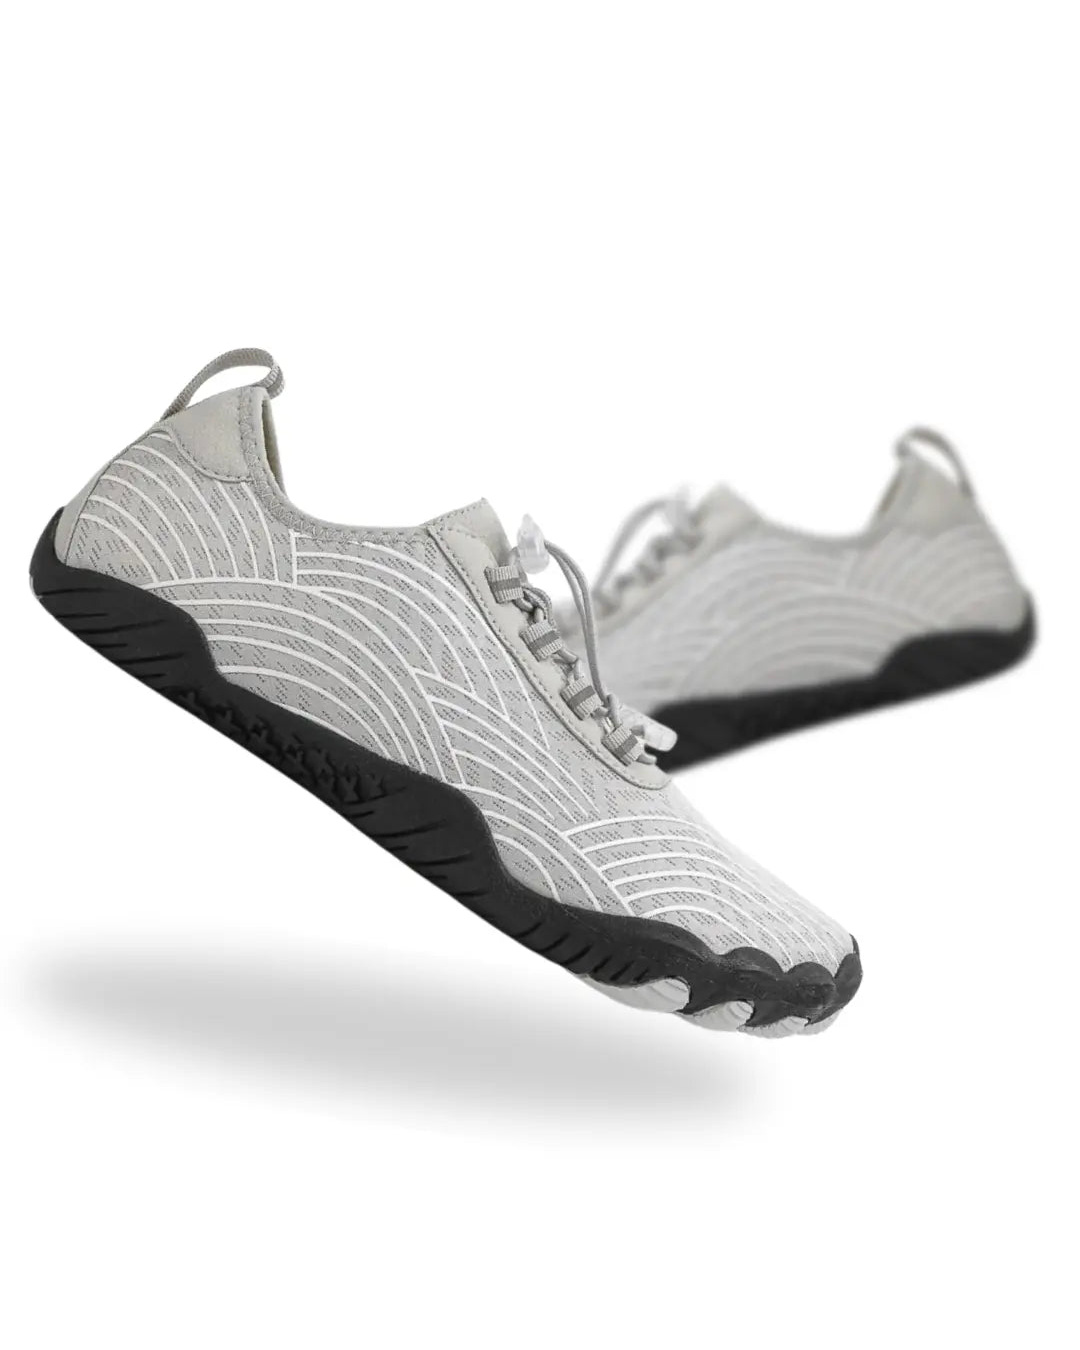
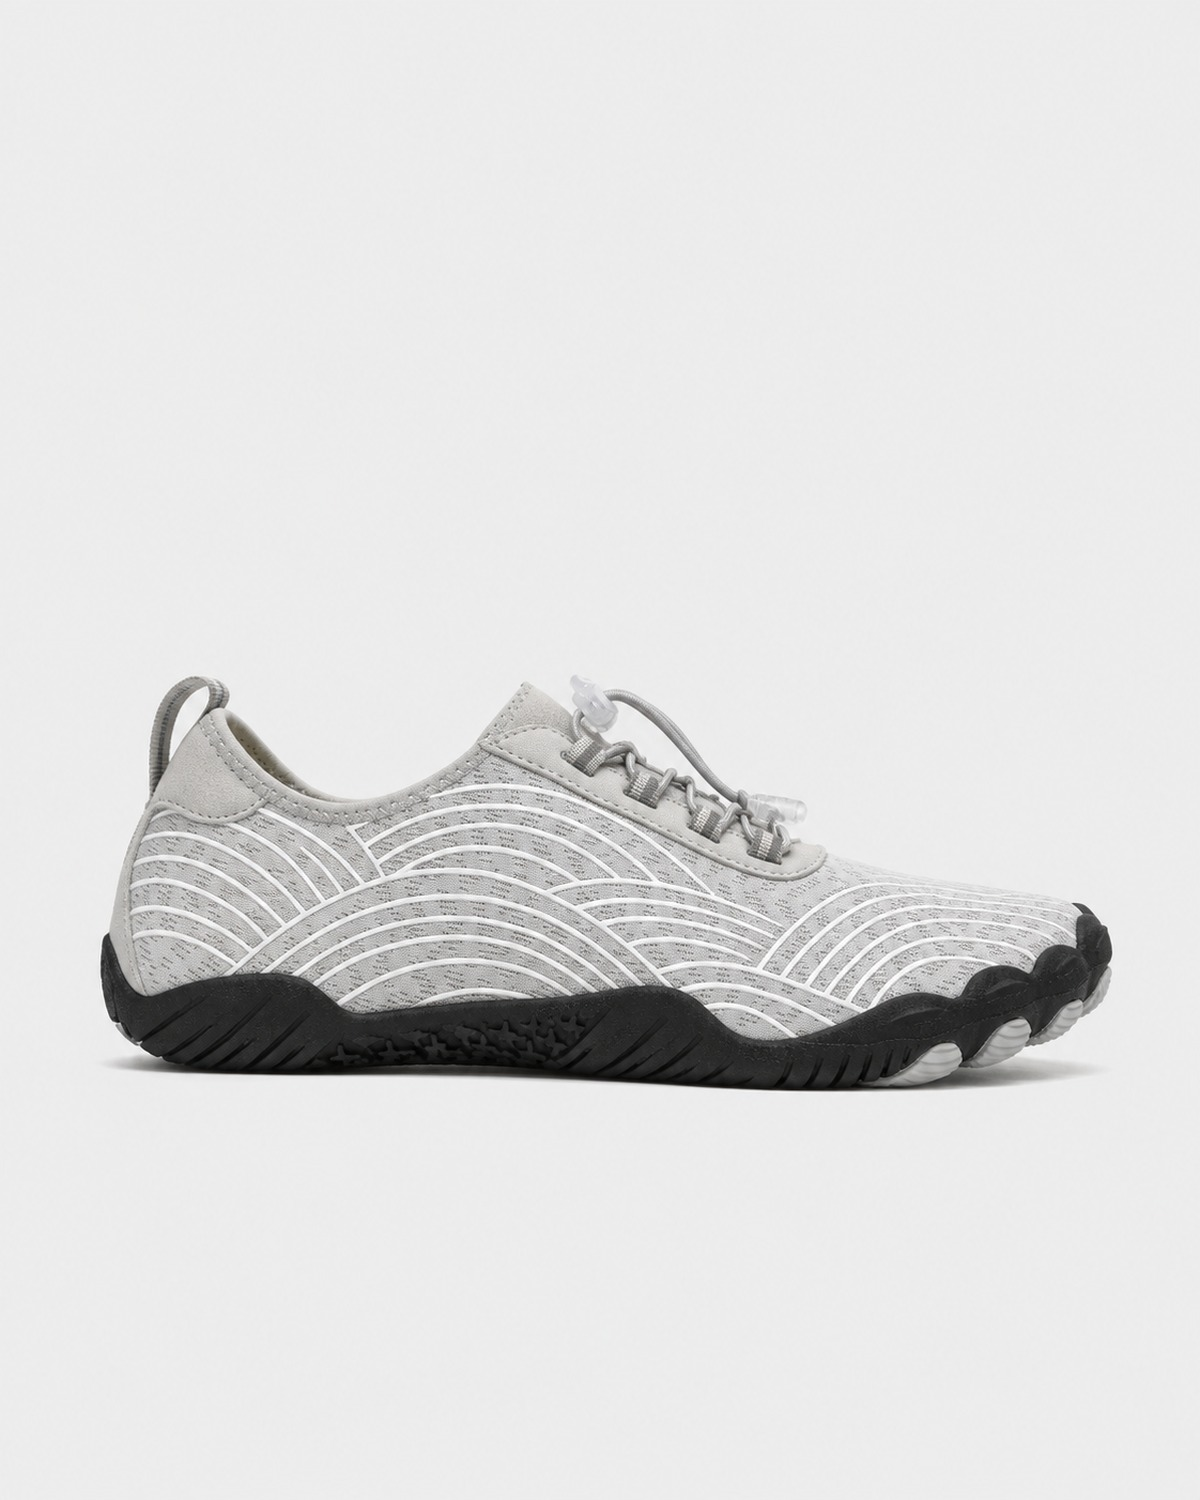
feat: upgrade Clouders Gray gallery to 20-asset master ETQ sequence across UK, US, AU storefronts

Changed region(s): [[0.0306, 0.2489, 0.9778, 0.8089]]

diff --git a/apps/au/src/data/products.ts b/apps/au/src/data/products.ts
@@ -426,14 +426,28 @@ export const PRODUCTS: BarefootProduct[] = [
     compareAtPrice: 179,
     currencySymbol: "A$",
     primaryImage: "/media/products/clouders-gray/buudy-barefoot-shoes-clouders-gray-wide-toe-box-hero.jpg",
-    secondaryImage: "/media/products/clouders-gray/buudy-barefoot-shoes-clouders-gray-side-profile.jpg",
+    secondaryImage: "/media/products/clouders-gray/buudy-barefoot-shoes-clouders-gray-on-foot-architectural-standing.jpg",
     galleryImages: [
       "/media/products/clouders-gray/buudy-barefoot-shoes-clouders-gray-wide-toe-box-hero.jpg",
-      "/media/products/clouders-gray/buudy-barefoot-shoes-clouders-gray-side-profile.jpg",
-      "/media/products/clouders-gray/buudy-barefoot-shoes-clouders-gray-angle-perspective.jpg",
-      "/media/products/clouders-gray/buudy-barefoot-shoes-clouders-gray-front-wide-toe-box.jpg",
-      "/media/products/clouders-gray/buudy-barefoot-shoes-clouders-gray-heel-counter.jpg",
-      "/media/products/clouders-gray/buudy-barefoot-shoes-clouders-gray-top-down-view.jpg",
+      "/media/products/clouders-gray/buudy-barefoot-shoes-clouders-gray-on-foot-architectural-standing.jpg",
+      "/media/products/clouders-gray/buudy-barefoot-shoes-clouders-gray-on-foot-stone-step-climb.jpg",
+      "/media/products/clouders-gray/buudy-barefoot-shoes-clouders-gray-on-foot-stone-ledge-stride.jpg",
+      "/media/products/clouders-gray/buudy-barefoot-shoes-clouders-gray-on-foot-sunlit-steps.jpg",
+      "/media/products/clouders-gray/buudy-barefoot-shoes-clouders-gray-on-foot-top-down-perspective.jpg",
+      "/media/products/clouders-gray/buudy-barefoot-shoes-clouders-gray-macro-lacing-toggle-detail.jpg",
+      "/media/products/clouders-gray/buudy-barefoot-shoes-clouders-gray-macro-heel-counter-rear-sole.jpg",
+      "/media/products/clouders-gray/buudy-barefoot-shoes-clouders-gray-macro-outsole-heel-tread.jpg",
+      "/media/products/clouders-gray/buudy-barefoot-shoes-clouders-gray-dual-heel-perspective-pair.jpg",
+      "/media/products/clouders-gray/buudy-barefoot-shoes-clouders-gray-duo-top-profile-layout.jpg",
+      "/media/products/clouders-gray/buudy-barefoot-shoes-clouders-gray-on-foot-spiral-staircase-walking.jpg",
+      "/media/products/clouders-gray/buudy-barefoot-shoes-clouders-gray-model-full-body-lifestyle.jpg",
+      "/media/products/clouders-gray/buudy-barefoot-shoes-clouders-gray-in-hand-featherlight-display.jpg",
+      "/media/products/clouders-gray/buudy-barefoot-shoes-clouders-gray-herringbone-wood-pair-top-down.jpg",
+      "/media/products/clouders-gray/buudy-barefoot-shoes-clouders-gray-herringbone-wood-toe-box-macro.jpg",
+      "/media/products/clouders-gray/buudy-barefoot-shoes-clouders-gray-herringbone-wood-heel-counter.jpg",
+      "/media/products/clouders-gray/buudy-barefoot-shoes-clouders-gray-herringbone-wood-tongue-laces.jpg",
+      "/media/products/clouders-gray/buudy-barefoot-shoes-clouders-gray-overhead-bungee-throat-angle.jpg",
+      "/media/products/clouders-gray/buudy-barefoot-shoes-clouders-gray-outsole-bottom-tread-grip.jpg",
     ],
     badge: "Popular",
     badgeType: "dark",

diff --git a/apps/uk/src/data/products.ts b/apps/uk/src/data/products.ts
@@ -426,14 +426,28 @@ export const PRODUCTS: BarefootProduct[] = [
     compareAtPrice: 99,
     currencySymbol: "£",
     primaryImage: "/media/products/clouders-gray/buudy-barefoot-shoes-clouders-gray-wide-toe-box-hero.jpg",
-    secondaryImage: "/media/products/clouders-gray/buudy-barefoot-shoes-clouders-gray-side-profile.jpg",
+    secondaryImage: "/media/products/clouders-gray/buudy-barefoot-shoes-clouders-gray-on-foot-architectural-standing.jpg",
     galleryImages: [
       "/media/products/clouders-gray/buudy-barefoot-shoes-clouders-gray-wide-toe-box-hero.jpg",
-      "/media/products/clouders-gray/buudy-barefoot-shoes-clouders-gray-side-profile.jpg",
-      "/media/products/clouders-gray/buudy-barefoot-shoes-clouders-gray-angle-perspective.jpg",
-      "/media/products/clouders-gray/buudy-barefoot-shoes-clouders-gray-front-wide-toe-box.jpg",
-      "/media/products/clouders-gray/buudy-barefoot-shoes-clouders-gray-heel-counter.jpg",
-      "/media/products/clouders-gray/buudy-barefoot-shoes-clouders-gray-top-down-view.jpg",
+      "/media/products/clouders-gray/buudy-barefoot-shoes-clouders-gray-on-foot-architectural-standing.jpg",
+      "/media/products/clouders-gray/buudy-barefoot-shoes-clouders-gray-on-foot-stone-step-climb.jpg",
+      "/media/products/clouders-gray/buudy-barefoot-shoes-clouders-gray-on-foot-stone-ledge-stride.jpg",
+      "/media/products/clouders-gray/buudy-barefoot-shoes-clouders-gray-on-foot-sunlit-steps.jpg",
+      "/media/products/clouders-gray/buudy-barefoot-shoes-clouders-gray-on-foot-top-down-perspective.jpg",
+      "/media/products/clouders-gray/buudy-barefoot-shoes-clouders-gray-macro-lacing-toggle-detail.jpg",
+      "/media/products/clouders-gray/buudy-barefoot-shoes-clouders-gray-macro-heel-counter-rear-sole.jpg",
+      "/media/products/clouders-gray/buudy-barefoot-shoes-clouders-gray-macro-outsole-heel-tread.jpg",
+      "/media/products/clouders-gray/buudy-barefoot-shoes-clouders-gray-dual-heel-perspective-pair.jpg",
+      "/media/products/clouders-gray/buudy-barefoot-shoes-clouders-gray-duo-top-profile-layout.jpg",
+      "/media/products/clouders-gray/buudy-barefoot-shoes-clouders-gray-on-foot-spiral-staircase-walking.jpg",
+      "/media/products/clouders-gray/buudy-barefoot-shoes-clouders-gray-model-full-body-lifestyle.jpg",
+      "/media/products/clouders-gray/buudy-barefoot-shoes-clouders-gray-in-hand-featherlight-display.jpg",
+      "/media/products/clouders-gray/buudy-barefoot-shoes-clouders-gray-herringbone-wood-pair-top-down.jpg",
+      "/media/products/clouders-gray/buudy-barefoot-shoes-clouders-gray-herringbone-wood-toe-box-macro.jpg",
+      "/media/products/clouders-gray/buudy-barefoot-shoes-clouders-gray-herringbone-wood-heel-counter.jpg",
+      "/media/products/clouders-gray/buudy-barefoot-shoes-clouders-gray-herringbone-wood-tongue-laces.jpg",
+      "/media/products/clouders-gray/buudy-barefoot-shoes-clouders-gray-overhead-bungee-throat-angle.jpg",
+      "/media/products/clouders-gray/buudy-barefoot-shoes-clouders-gray-outsole-bottom-tread-grip.jpg",
     ],
     badge: "Popular",
     badgeType: "dark",

diff --git a/apps/us/src/data/products.ts b/apps/us/src/data/products.ts
@@ -426,14 +426,28 @@ export const PRODUCTS: BarefootProduct[] = [
     compareAtPrice: 119,
     currencySymbol: "$",
     primaryImage: "/media/products/clouders-gray/buudy-barefoot-shoes-clouders-gray-wide-toe-box-hero.jpg",
-    secondaryImage: "/media/products/clouders-gray/buudy-barefoot-shoes-clouders-gray-side-profile.jpg",
+    secondaryImage: "/media/products/clouders-gray/buudy-barefoot-shoes-clouders-gray-on-foot-architectural-standing.jpg",
     galleryImages: [
       "/media/products/clouders-gray/buudy-barefoot-shoes-clouders-gray-wide-toe-box-hero.jpg",
-      "/media/products/clouders-gray/buudy-barefoot-shoes-clouders-gray-side-profile.jpg",
-      "/media/products/clouders-gray/buudy-barefoot-shoes-clouders-gray-angle-perspective.jpg",
-      "/media/products/clouders-gray/buudy-barefoot-shoes-clouders-gray-front-wide-toe-box.jpg",
-      "/media/products/clouders-gray/buudy-barefoot-shoes-clouders-gray-heel-counter.jpg",
-      "/media/products/clouders-gray/buudy-barefoot-shoes-clouders-gray-top-down-view.jpg",
+      "/media/products/clouders-gray/buudy-barefoot-shoes-clouders-gray-on-foot-architectural-standing.jpg",
+      "/media/products/clouders-gray/buudy-barefoot-shoes-clouders-gray-on-foot-stone-step-climb.jpg",
+      "/media/products/clouders-gray/buudy-barefoot-shoes-clouders-gray-on-foot-stone-ledge-stride.jpg",
+      "/media/products/clouders-gray/buudy-barefoot-shoes-clouders-gray-on-foot-sunlit-steps.jpg",
+      "/media/products/clouders-gray/buudy-barefoot-shoes-clouders-gray-on-foot-top-down-perspective.jpg",
+      "/media/products/clouders-gray/buudy-barefoot-shoes-clouders-gray-macro-lacing-toggle-detail.jpg",
+      "/media/products/clouders-gray/buudy-barefoot-shoes-clouders-gray-macro-heel-counter-rear-sole.jpg",
+      "/media/products/clouders-gray/buudy-barefoot-shoes-clouders-gray-macro-outsole-heel-tread.jpg",
+      "/media/products/clouders-gray/buudy-barefoot-shoes-clouders-gray-dual-heel-perspective-pair.jpg",
+      "/media/products/clouders-gray/buudy-barefoot-shoes-clouders-gray-duo-top-profile-layout.jpg",
+      "/media/products/clouders-gray/buudy-barefoot-shoes-clouders-gray-on-foot-spiral-staircase-walking.jpg",
+      "/media/products/clouders-gray/buudy-barefoot-shoes-clouders-gray-model-full-body-lifestyle.jpg",
+      "/media/products/clouders-gray/buudy-barefoot-shoes-clouders-gray-in-hand-featherlight-display.jpg",
+      "/media/products/clouders-gray/buudy-barefoot-shoes-clouders-gray-herringbone-wood-pair-top-down.jpg",
+      "/media/products/clouders-gray/buudy-barefoot-shoes-clouders-gray-herringbone-wood-toe-box-macro.jpg",
+      "/media/products/clouders-gray/buudy-barefoot-shoes-clouders-gray-herringbone-wood-heel-counter.jpg",
+      "/media/products/clouders-gray/buudy-barefoot-shoes-clouders-gray-herringbone-wood-tongue-laces.jpg",
+      "/media/products/clouders-gray/buudy-barefoot-shoes-clouders-gray-overhead-bungee-throat-angle.jpg",
+      "/media/products/clouders-gray/buudy-barefoot-shoes-clouders-gray-outsole-bottom-tread-grip.jpg",
     ],
     badge: "Popular",
     badgeType: "dark",

diff --git a/CONTEXT.md b/CONTEXT.md
@@ -140,4 +140,31 @@ This file is an append-only operational history for `E:\1st YEAR DTU\New folder\
 - Image Processing: Converted to exact 4:5 aspect ratio (`1200x1500`) using Lanczos resampling and high-quality progressive JPEG compression (`quality=92`).
 - Monorepo Sync & Build: Deployed across `apps/uk`, `apps/us`, and `apps/au`, synchronized `products.ts` gallery mapping, purged legacy obsolete assets in `clouders-beige/`, and verified full Turborepo SSG compilation (153 static pages prerendered with 0 errors).
 
+## 2026-09-05 18:30:00 +05:30 - Clouders Gray 20-Asset Master Gallery & ETQ Sequence Integration
+
+- Repository/route: `E:\1st YEAR DTU\New folder\Barefoot_shoes_vercel`; `https://barefoot-shoes-uk.vercel.app/products/clouders-barefoot-shoes-gray`.
+- Scope: Deployed 20 master 4:5 aspect ratio (`1200x1500`) assets for `clouders-barefoot-shoes-gray` adhering 1:1 to ETQ Amsterdam reference sequence (`lt-01-shades-suede-cement-grey`):
+  1. `buudy-barefoot-shoes-clouders-gray-wide-toe-box-hero.jpg` (Position 1: Lateral side profile solo hero on studio background)
+  2. `buudy-barefoot-shoes-clouders-gray-on-foot-architectural-standing.jpg` (Position 2: On-foot standing perspective near modern window with relaxed trousers)
+  3. `buudy-barefoot-shoes-clouders-gray-on-foot-stone-step-climb.jpg` (Position 3: On-foot step climbing action on dark stone wall texture)
+  4. `buudy-barefoot-shoes-clouders-gray-on-foot-stone-ledge-stride.jpg` (Position 4: On-foot dynamic stride stepping onto dark stone block ledge with cropped trousers)
+  5. `buudy-barefoot-shoes-clouders-gray-on-foot-sunlit-steps.jpg` (Position 5: On-foot walking down sunlit architectural sandstone steps in black trousers)
+  6. `buudy-barefoot-shoes-clouders-gray-on-foot-top-down-perspective.jpg` (Position 6: On-foot bird's-eye top-down perspective on smooth floor)
+  7. `buudy-barefoot-shoes-clouders-gray-macro-lacing-toggle-detail.jpg` (Position 7: Macro close-up speed bungee lacing system, clear cord lock toggle, and knit throat)
+  8. `buudy-barefoot-shoes-clouders-gray-macro-heel-counter-rear-sole.jpg` (Position 8: Macro rear heel counter detail, reflective pull tab, and zero-drop outsole)
+  9. `buudy-barefoot-shoes-clouders-gray-macro-outsole-heel-tread.jpg` (Position 9: Macro close-up articulated barefoot outsole bottom tread and toe pods)
+  10. `buudy-barefoot-shoes-clouders-gray-dual-heel-perspective-pair.jpg` (Position 10: Dual rear heel counter perspective pair showing zero-drop alignment)
+  11. `buudy-barefoot-shoes-clouders-gray-duo-top-profile-layout.jpg` (Position 11: Duo studio display featuring top-down view and medial side profile)
+  12. `buudy-barefoot-shoes-clouders-gray-on-foot-spiral-staircase-walking.jpg` (Position 12: On-foot walking down spiral architectural staircase with tan trousers)
+  13. `buudy-barefoot-shoes-clouders-gray-model-full-body-lifestyle.jpg` (Position 13: Full body male model standing in grey polo on neutral studio background)
+  14. `buudy-barefoot-shoes-clouders-gray-in-hand-featherlight-display.jpg` (Position 14: In-hand display demonstrating ultra-lightweight construction and flexible silhouette)
+  15. `buudy-barefoot-shoes-clouders-gray-herringbone-wood-pair-top-down.jpg` (Position 15: Overhead top-down view of pair on herringbone oak hardwood floor)
+  16. `buudy-barefoot-shoes-clouders-gray-herringbone-wood-toe-box-macro.jpg` (Position 16: Macro angle of anatomical wide toe box and wave knit upper on oak flooring)
+  17. `buudy-barefoot-shoes-clouders-gray-herringbone-wood-heel-counter.jpg` (Position 17: Macro angle of reinforced suede heel counter and pull tab on hardwood floor)
+  18. `buudy-barefoot-shoes-clouders-gray-herringbone-wood-tongue-laces.jpg` (Position 18: Macro texture detail of breathable mesh tongue and speed laces on wood floor)
+  19. `buudy-barefoot-shoes-clouders-gray-overhead-bungee-throat-angle.jpg` (Position 19: Overhead high-angle perspective of bungee throat, collar, and wave pattern)
+  20. `buudy-barefoot-shoes-clouders-gray-outsole-bottom-tread-grip.jpg` (Position 20: Full outsole bottom tread perspective displaying multi-directional grip patterns)
+- Image Processing: Converted to exact 4:5 aspect ratio (`1200x1500`) with Lanczos resampling and progressive JPEG compression (`quality=92`).
+- Monorepo Sync & Build: Deployed across `apps/uk`, `apps/us`, and `apps/au`, synchronized `products.ts` gallery mapping, purged legacy obsolete assets in `clouders-gray/`, and verified full Turborepo SSG compilation (153 static pages prerendered with 0 errors).
+
 
